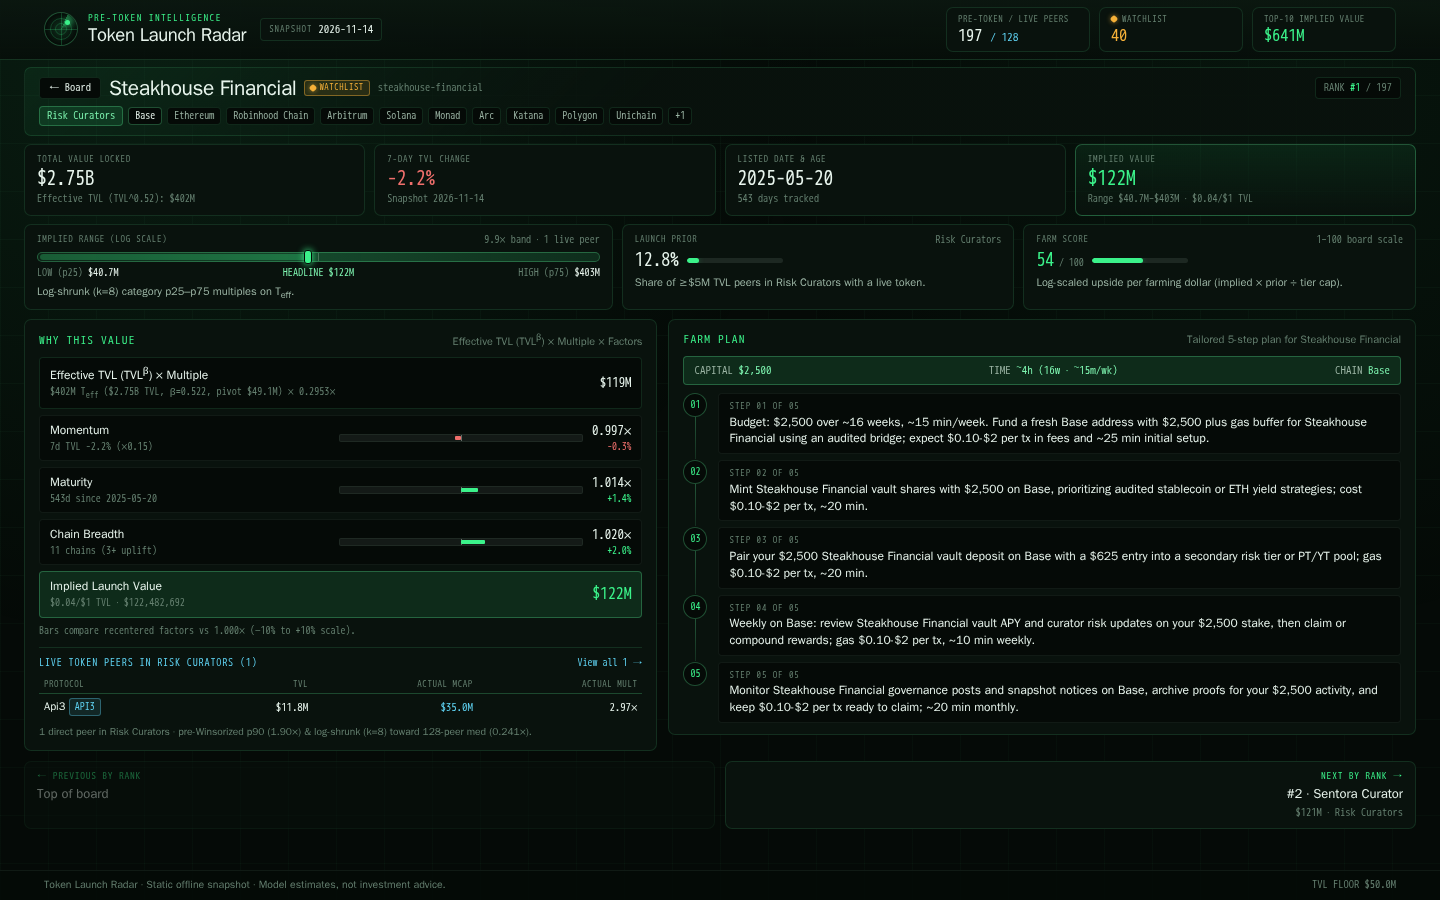
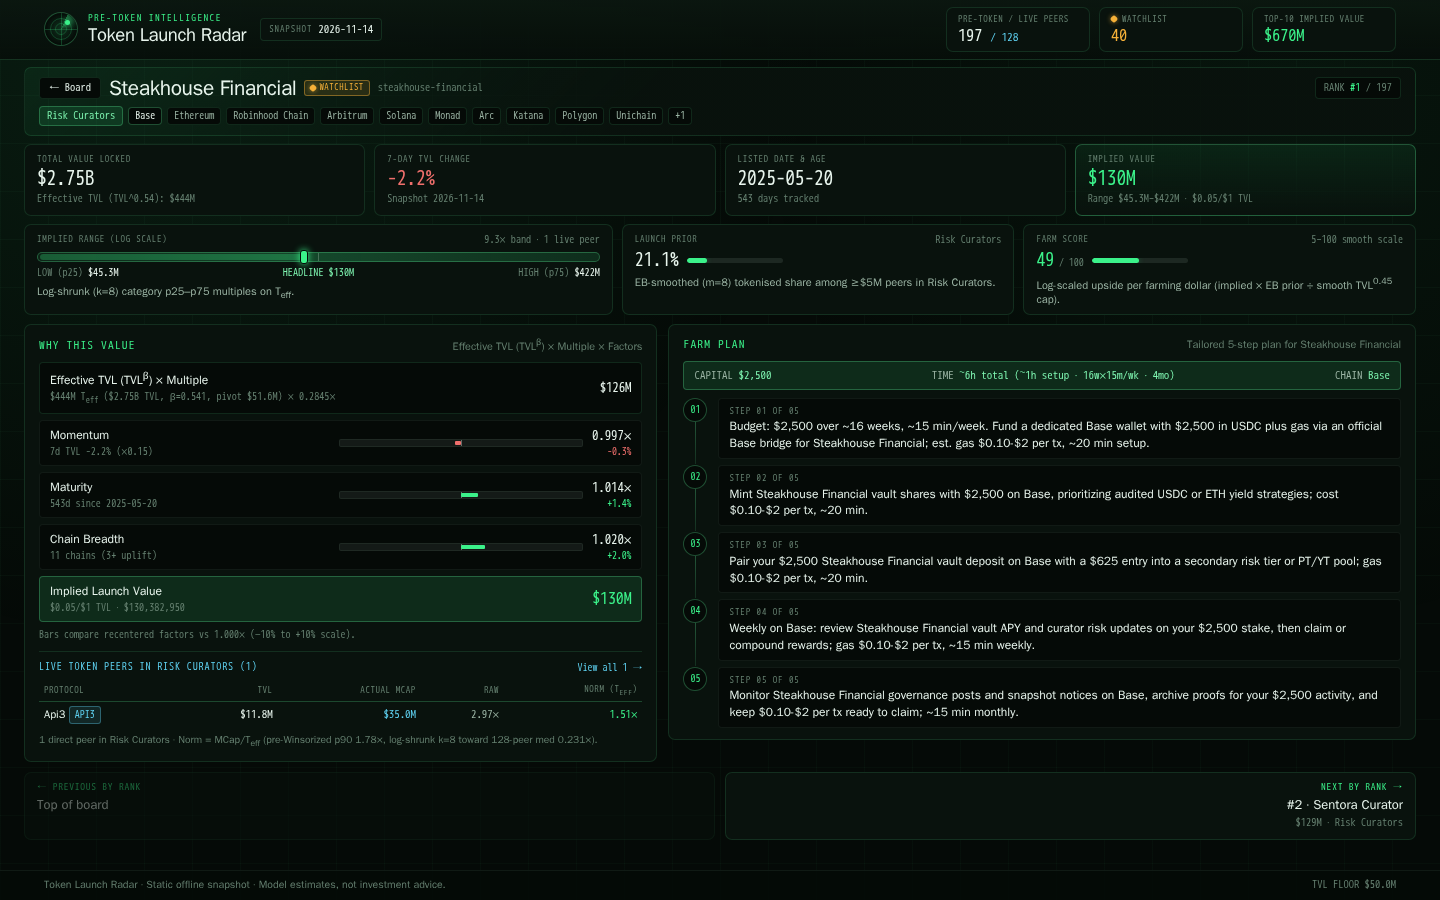
screenshots, tools & README: v4 screenshots, enhanced DOM layout probes, and README update

diff --git a/README.md b/README.md
@@ -6,15 +6,16 @@
 
 Token Launch Radar ranks pre-token DeFi protocols from a sealed on-chain snapshot and ships a static offline dashboard (model card, log-log TVL scatter plot, separated Pre-Token Radar / Live Token Peers views, category/chain/watchlist filters, category peer comparison tables, and protocol-specific farming plans).
 
-## Model (v3)
+## Model (v4)
 
 All valuation parameters are derived directly from the sealed snapshot:
 
-- **TVL power-law scaling:** global OLS on $\log_{10}(\text{mcap}) \sim \log_{10}(\text{TVL})$ across all **128** tokenised peers estimates elasticity $\hat{\beta} = 0.5223$ (clamped to `[0.35, 1.0]`) around the geometric-mean TVL pivot $\bar{T} = \$49.1\text{M}$, defining effective TVL $T_{\text{eff}}(T) = \bar{T}\cdot(T/\bar{T})^{\hat{\beta}}$.
-- **Pre-Winsorized log-space category multiples:** normalized peer ratios $r_i = \text{mcap}_i / T_{\text{eff}}(T_i)$ are upper-Winsorized at the data-derived 90th percentile (`1.9010×`) *before* computing category quantiles (`p50`, `p25`, `p75`), then shrunk geometrically in log space (`k = 8`) toward global benchmarks (`0.2410×` median, `0.0697×–0.9209×` IQR).
+- **Split-TVL peer aggregation & power-law scaling:** tokenised protocols split across multiple version records sharing `(symbol, category)` with a single reported market cap (e.g., Aave V1–V4, SushiSwap, Quickswap, Gate) are aggregated by total TVL before fitting. Global OLS on $\log_{10}(\text{mcap}) \sim \log_{10}(\text{TVL})$ across all **128** tokenised peers estimates elasticity $\hat{\beta} = 0.5413$ (clamped to `[0.35, 1.0]`) around the geometric-mean TVL pivot $\bar{T} = \$51.6\text{M}$, defining effective TVL $T_{\text{eff}}(T) = \bar{T}\cdot(T/\bar{T})^{\hat{\beta}}$.
+- **Pre-Winsorized log-space category multiples:** normalized peer ratios $r_i = \text{mcap}_i / T_{\text{eff}}(T_i)$ are upper-Winsorized at the data-derived 90th percentile (`1.7802×`) *before* computing category quantiles (`p50`, `p25`, `p75`), then shrunk geometrically in log space (`k = 8`) toward global benchmarks (`0.2310×` median, `0.0680×–0.8548×` IQR).
 - **Recentered adjustments:** implied values multiply `T_eff × category multiple` by recentered 7-day TVL momentum (`×0.15` weight), listing-age maturity (`0.90–1.08`, `0.99` when unlisted), and multi-chain breadth (`0.98 / 1.00 / 1.02`).
-- **Leave-one-out validation:** evaluated across all **128** tokenised peers with TVL ≥ $5M (recomputing $\hat{\beta}$, $\bar{T}$, global quantiles, `p90` cap, and shrunk category quantiles strictly without each held-out protocol), achieving median predicted/actual **1.09×** (`1.0862`), **32.8%** within `2×`, **43.0%** within `3×`, **43.0%** `p25–p75` IQR coverage, `RMSLE(log10) = 0.9155`, and `MAE(log10) = 0.6919`.
-- **Separated token views & farm plans:** the dashboard separates **Pre-Token Radar (197)** from **Live Token Peers (128)**, shows same-category live peers under each protocol's valuation breakdown, and pairs every candidate with a 5-step TVL-tiered farming plan.
+- **Empirical-Bayes launch priors & continuous farm score:** category launch priors use Beta-Binomial smoothing (`m = 8`) over the clean `>= $5M` TVL pool (`508` protocols, `61.2%` global tokenised share) to eliminate `0%` collapses. `farm_score` (`5–100`) scales `implied × EB prior ÷ smooth TVL^0.45 capital curve` logarithmically (`p1–p99`), removing discrete capital-tier cliffs.
+- **Leave-one-out validation:** evaluated across all **128** tokenised peers with TVL ≥ $5M (recomputing $\hat{\beta}$, $\bar{T}$, global quantiles, `p90` cap, and shrunk category quantiles strictly without each held-out protocol), achieving median predicted/actual **1.07×** (`1.0723`), **31.3%** within `2×`, **43.8%** within `3×`, **43.0%** `p25–p75` IQR coverage, `RMSLE(log10) = 0.8958`, `MAE(log10) = 0.6787`, and `Spearman ρ = 0.4238`.
+- **Separated token views & chain-accurate farm plans:** the dashboard separates **Pre-Token Radar (197)** from **Live Token Peers (128)**, displays both `Raw` and model-aligned `Norm (T_eff)` peer multiples on each protocol's detail page, and pairs every candidate with a chain-authentic, timing-consistent 5-step farming plan (`~total time` includes setup, weekly cadence, and monthly launch tracking).
 
 ## Run it
 
